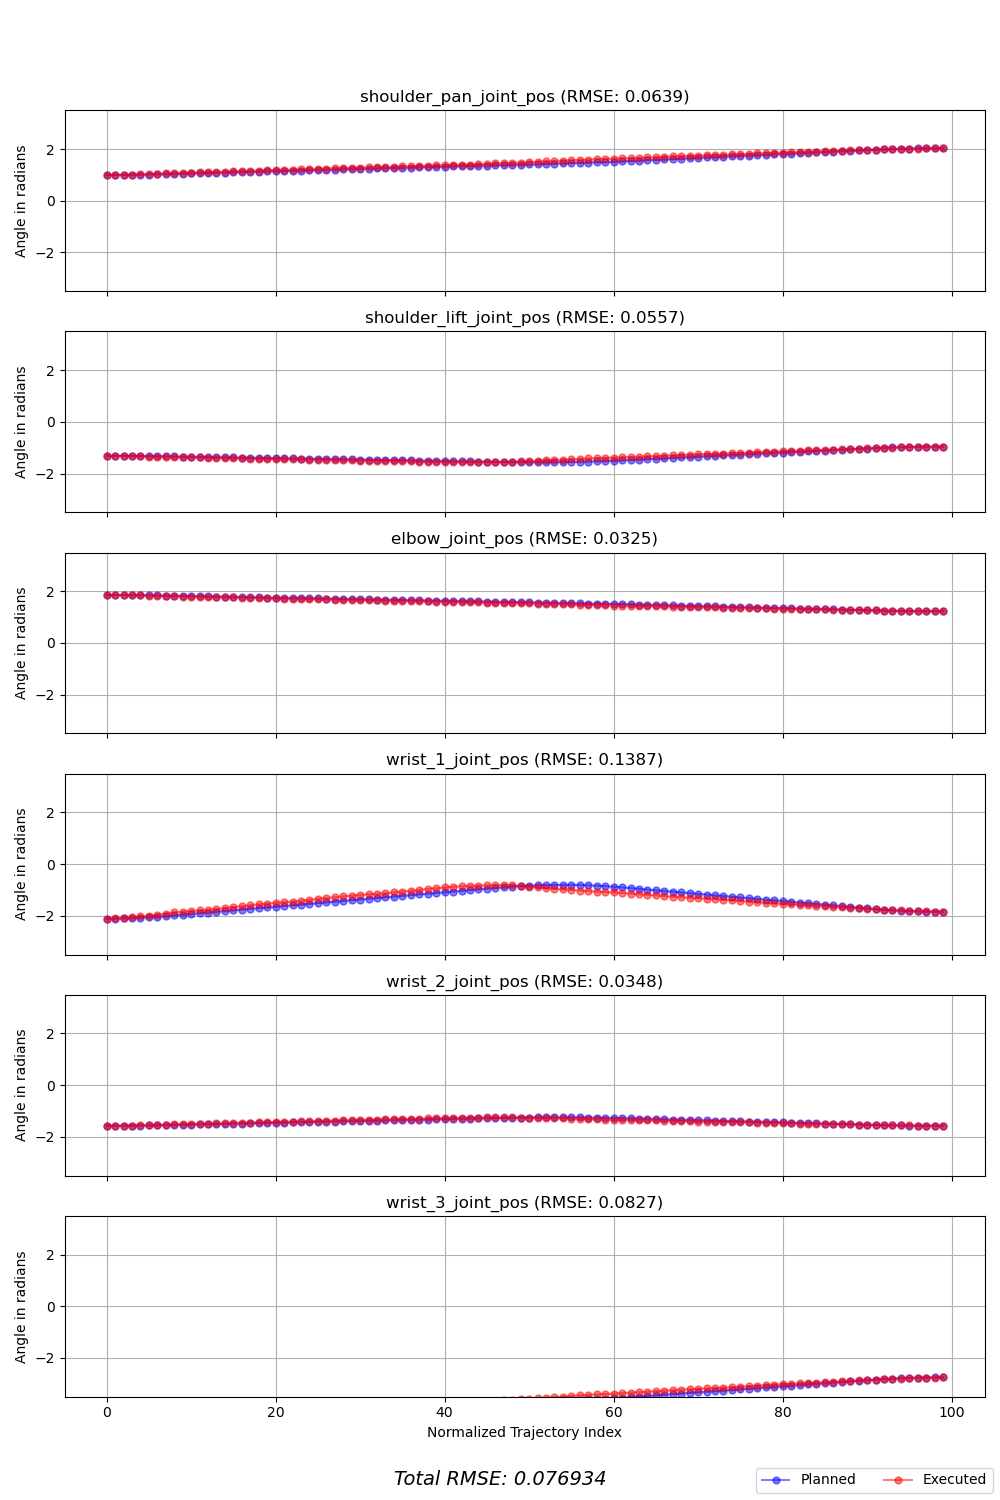
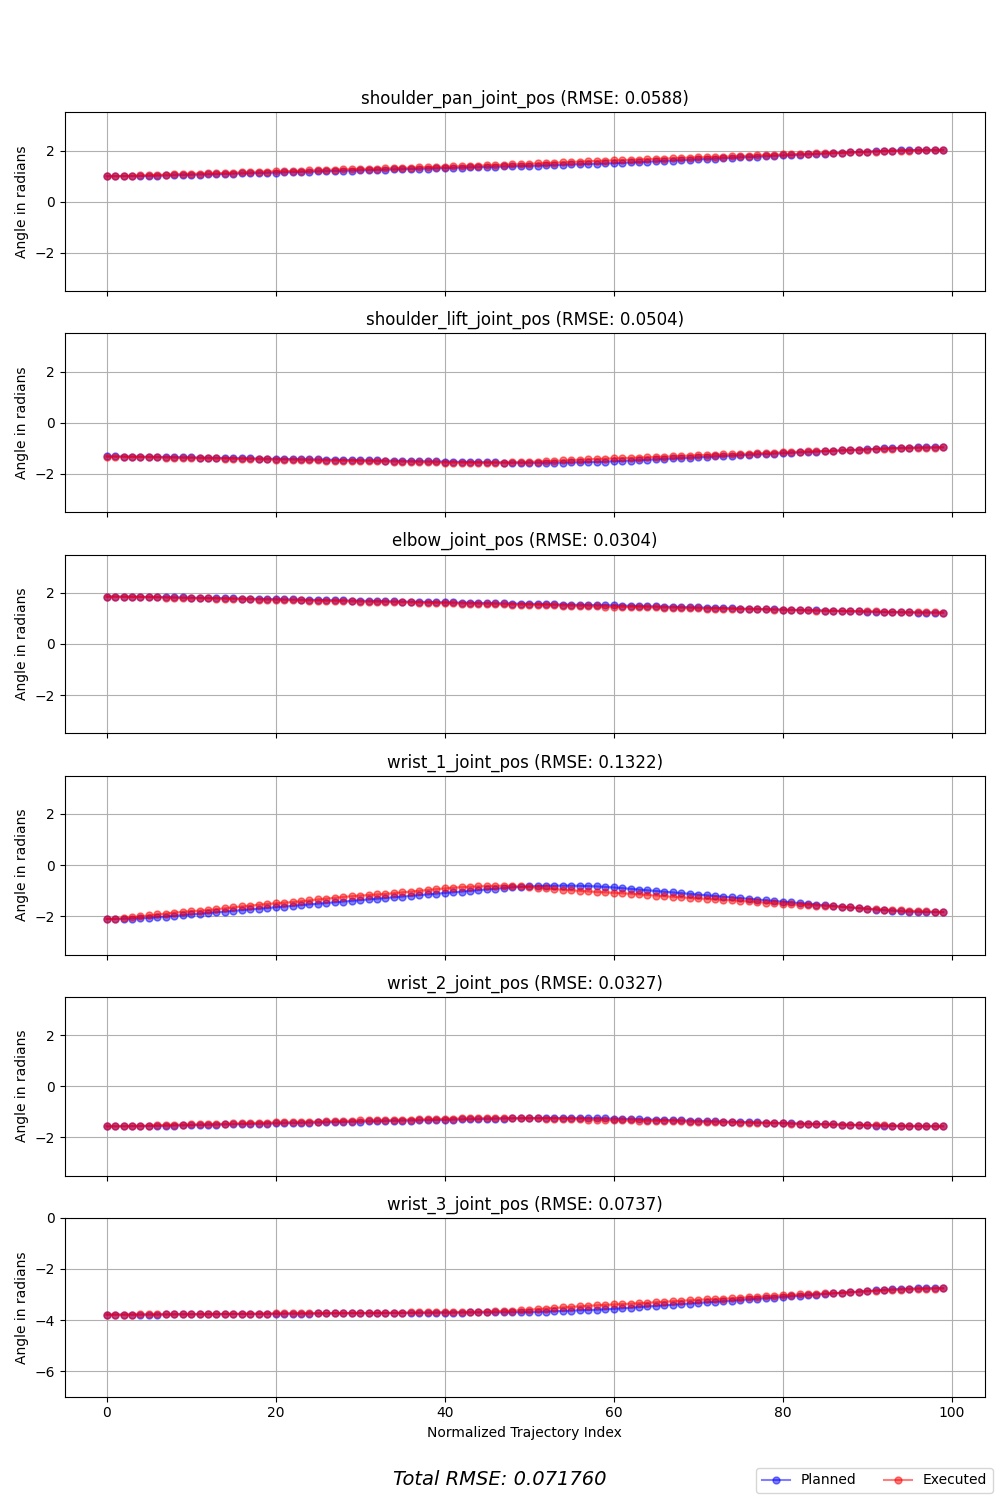
fixed y-limits for trajectory_20250722_124049_compare_planned_vs_executed.png

diff --git a/evaluate_motion_primitives_from_trajectory_controller/compare.py b/evaluate_motion_primitives_from_trajectory_controller/compare.py
@@ -92,10 +92,10 @@ def main():
     # filename_reduced = "trajectory_20250721_152220_reduced_PTP.csv"
     # mode = "joint"
 
-    # filename_planned = "trajectory_20250722_124049_planned.csv"
-    # filename_executed = "trajectory_20250722_124049_executed.csv"
-    # filename_reduced = "trajectory_20250722_124049_reduced_LIN.csv"
-    # mode = "cartesian"
+    filename_planned = "trajectory_20250722_124049_planned.csv"
+    filename_executed = "trajectory_20250722_124049_executed.csv"
+    filename_reduced = "trajectory_20250722_124049_reduced_LIN.csv"
+    mode = "cartesian"
 
     ### KUKA ###
     # filename_planned = "trajectory_20250722_094638_planned.csv"
@@ -153,52 +153,52 @@ def main():
     # filename_reduced = "trajectory_20250722_103755_reduced_LIN.csv"
     # mode = "cartesian"
 
-    filename_planned = "trajectory_20250722_104157_planned.csv"
-    filename_executed = "trajectory_20250722_104157_executed.csv"
-    filename_reduced = "trajectory_20250722_104157_reduced_LIN.csv"
-    mode = "cartesian"
+    # filename_planned = "trajectory_20250722_104157_planned.csv"
+    # filename_executed = "trajectory_20250722_104157_executed.csv"
+    # filename_reduced = "trajectory_20250722_104157_reduced_LIN.csv"
+    # mode = "cartesian"
 
     filepath_planned = os.path.join(data_dir, filename_planned)
     filepath_executed = os.path.join(data_dir, filename_executed)
     filepath_reduced = os.path.join(data_dir, filename_reduced)
 
     ### UR ###
-    # joint_names = [
-    #     "shoulder_pan_joint",
-    #     "shoulder_lift_joint",
-    #     "elbow_joint",
-    #     "wrist_1_joint",
-    #     "wrist_2_joint",
-    #     "wrist_3_joint",
-    # ]
-    # joint_pos_names = [
-    #     "shoulder_pan_joint_pos",
-    #     "shoulder_lift_joint_pos",
-    #     "elbow_joint_pos",
-    #     "wrist_1_joint_pos",
-    #     "wrist_2_joint_pos",
-    #     "wrist_3_joint_pos",
-    # ]
-    # joint_vel_threshold = 0.01
-
-    ### KUKA ###
     joint_names = [
-        "joint_a1",
-        "joint_a2",
-        "joint_a3",
-        "joint_a4",
-        "joint_a5",
-        "joint_a6",
+        "shoulder_pan_joint",
+        "shoulder_lift_joint",
+        "elbow_joint",
+        "wrist_1_joint",
+        "wrist_2_joint",
+        "wrist_3_joint",
     ]
     joint_pos_names = [
-        "joint_a1_pos",
-        "joint_a2_pos",
-        "joint_a3_pos",
-        "joint_a4_pos",
-        "joint_a5_pos",
-        "joint_a6_pos",
+        "shoulder_pan_joint_pos",
+        "shoulder_lift_joint_pos",
+        "elbow_joint_pos",
+        "wrist_1_joint_pos",
+        "wrist_2_joint_pos",
+        "wrist_3_joint_pos",
     ]
-    joint_vel_threshold = 1.0
+    joint_vel_threshold = 0.01
+
+    ### KUKA ###
+    # joint_names = [
+    #     "joint_a1",
+    #     "joint_a2",
+    #     "joint_a3",
+    #     "joint_a4",
+    #     "joint_a5",
+    #     "joint_a6",
+    # ]
+    # joint_pos_names = [
+    #     "joint_a1_pos",
+    #     "joint_a2_pos",
+    #     "joint_a3_pos",
+    #     "joint_a4_pos",
+    #     "joint_a5_pos",
+    #     "joint_a6_pos",
+    # ]
+    # joint_vel_threshold = 1.0
 
     pose_names = ["pose_x", "pose_y", "pose_z", "pose_qx", "pose_qy", "pose_qz", "pose_qw"]
 

diff --git a/evaluate_motion_primitives_from_trajectory_controller/compare_planned_and_executed_trajectory.py b/evaluate_motion_primitives_from_trajectory_controller/compare_planned_and_executed_trajectory.py
@@ -86,6 +86,8 @@ def compare_and_plot_joint_trajectories(
 
     axs[-1].set_xlabel("Normalized Trajectory Index")
 
+    # axs[-1].set_ylim(-7, 0)
+
     # Global legend
     fig.legend(
         ["Planned", "Executed"],
@@ -206,9 +208,13 @@ def compare_and_plot_cartesian_trajectories(
 
 
 def main():
-    data_dir = "src/evaluate_motion_primitives_from_trajectory_controller/data"
-    filename_planned = "trajectory_<date>_planned.csv"
-    filename_executed = "trajectory_<date>_executed.csv"
+    # data_dir = "src/evaluate_motion_primitives_from_trajectory_controller/data"
+    # filename_planned = "trajectory_<date>_planned.csv"
+    # filename_executed = "trajectory_<date>_executed.csv"
+    data_dir = "data"
+    filename_planned = "trajectory_20250722_124049_planned.csv"
+    filename_executed = "trajectory_20250722_124049_executed.csv"
+
     filepath_planned = os.path.join(data_dir, filename_planned)
     filepath_executed = os.path.join(data_dir, filename_executed)
     joint_pos_names = [
@@ -220,9 +226,10 @@ def main():
         "wrist_3_joint_pos",
     ]
     n_points = 100
+    vel_threshold=0.1
 
     compare_and_plot_joint_trajectories(
-        filepath_planned, filepath_executed, joint_pos_names, n_points
+        filepath_planned, filepath_executed, joint_pos_names, n_points, vel_threshold
     )
 
 
